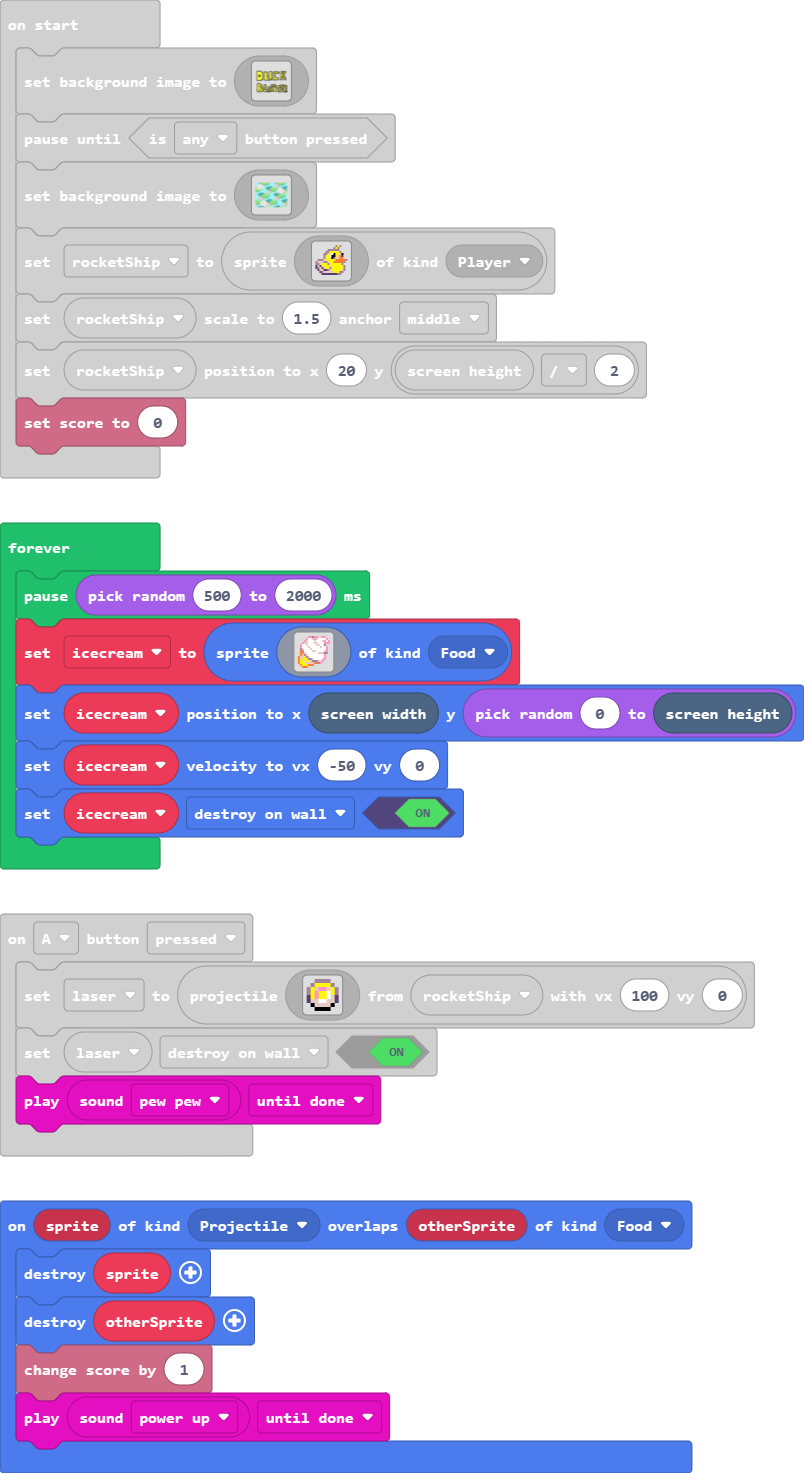
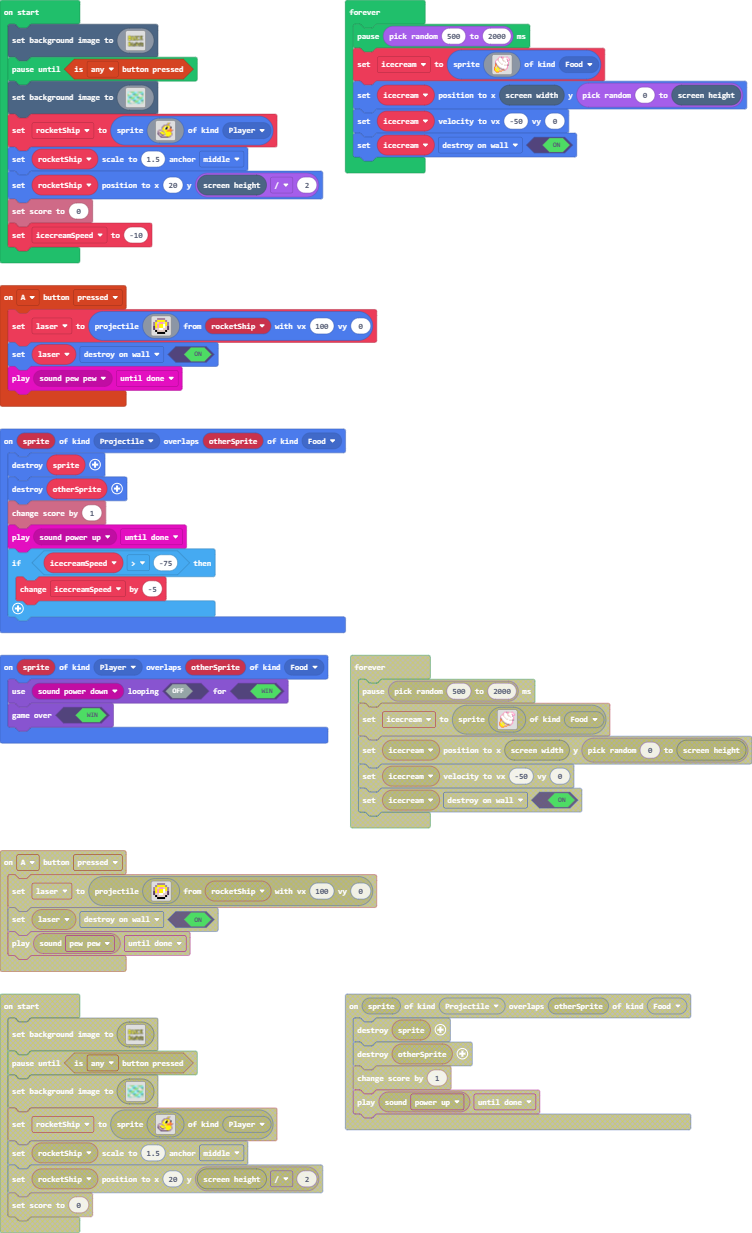
Added player and food collision.  Added game over.

diff --git a/main.ts b/main.ts
@@ -3,6 +3,9 @@ sprites.onOverlap(SpriteKind.Projectile, SpriteKind.Food, function (sprite, othe
     sprites.destroy(otherSprite)
     info.changeScoreBy(1)
     music.play(music.melodyPlayable(music.powerUp), music.PlaybackMode.UntilDone)
+    if (icecreamSpeed > -75) {
+        icecreamSpeed += -5
+    }
 })
 controller.A.onEvent(ControllerButtonEvent.Pressed, function () {
     laser = sprites.createProjectileFromSprite(img`
@@ -18,8 +21,13 @@ controller.A.onEvent(ControllerButtonEvent.Pressed, function () {
     laser.setFlag(SpriteFlag.DestroyOnWall, true)
     music.play(music.melodyPlayable(music.pewPew), music.PlaybackMode.UntilDone)
 })
+sprites.onOverlap(SpriteKind.Player, SpriteKind.Food, function (sprite, otherSprite) {
+    game.setGameOverPlayable(true, music.melodyPlayable(music.powerDown), false)
+    game.gameOver(true)
+})
 let icecream: Sprite = null
 let laser: Sprite = null
+let icecreamSpeed = 0
 let rocketShip: Sprite = null
 scene.setBackgroundImage(img`
     ................................................................................................................................................................
@@ -287,6 +295,7 @@ rocketShip = sprites.create(img`
 rocketShip.setScale(1.5, ScaleAnchor.Middle)
 rocketShip.setPosition(20, scene.screenHeight() / 2)
 info.setScore(0)
+icecreamSpeed = -10
 game.onUpdate(function () {
     if (controller.up.isPressed()) {
         rocketShip.y += -1
